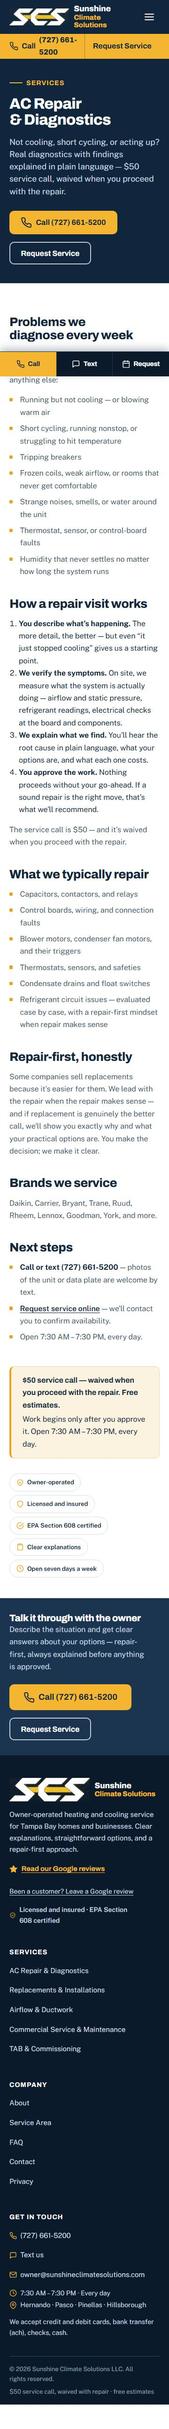
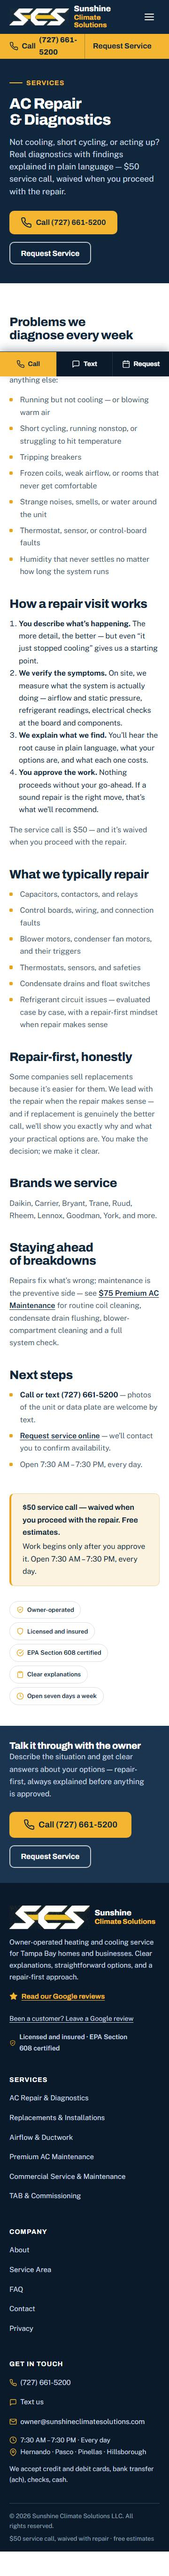
Add  Premium AC Maintenance service: page, homepage promo, form option, checklist

Changed region(s): [[0.0, 0.0, 1.0, 0.9979]]

diff --git a/src/content.config.ts b/src/content.config.ts
@@ -11,7 +11,7 @@ const services = defineCollection({
     metaTitle: z.string().optional(),
     summary: z.string(),
     metaDescription: z.string(),
-    icon: z.enum(['wrench', 'thermometer', 'wind', 'briefcase']),
+    icon: z.enum(['wrench', 'thermometer', 'wind', 'briefcase', 'shield']),
     order: z.number().int(),
   }),
 });
@@ -282,6 +282,15 @@ const site = defineCollection({
       .object({
         heading: z.string(),
         lead: z.string().optional(),
+      })
+      .optional(),
+
+    // home.md — $75 Premium AC Maintenance promotion band.
+    maintenanceBand: z
+      .object({
+        title: z.string(),
+        text: z.string(),
+        ctaLabel: z.string(),
       })
       .optional(),
 

diff --git a/src/content/services/ac-maintenance.md b/src/content/services/ac-maintenance.md
@@ -1,0 +1,198 @@
+---
+title: Premium AC Maintenance
+metaTitle: AC Maintenance in Spring Hill & Tampa Bay
+summary: >-
+  $75 per system, per visit — a comprehensive maintenance visit that includes routine coil
+  cleaning, condensate drain flushing, blower-compartment cleaning, electrical testing and
+  an evaluation of your system's operation.
+metaDescription: >-
+  $75 per system, per visit: routine coil cleaning, condensate drain flushing,
+  blower-compartment cleaning, electrical testing and a full system check. Spring Hill
+  based, serving Tampa Bay. Call (727) 661-5200.
+icon: shield
+order: 3
+---
+
+**Premium AC Maintenance. Comprehensive Care. Just $75.**
+
+This is preventive maintenance for a system that is running: routine cleaning, testing and a
+real evaluation of how your equipment is operating. **$75 per system, per visit** — an
+individual maintenance visit, not a membership, annual contract, repair warranty or
+subscription. If your system isn't cooling or isn't running, start with a
+[repair diagnostic](/services/ac-repair-diagnostics/) instead.
+
+## The four cleaning services included in every visit
+
+These routine procedures are part of the advertised $75 price — not add-ons:
+
+- **Outdoor condenser-coil cleaning.**
+- **Routine cleaning of the accessible indoor evaporator coil.**
+- **Flushing of the accessible condensate drain.**
+- **Accessible blower-compartment cleaning.**
+
+Every visit also includes the electrical inspection and operating evaluation described below.
+
+## The full maintenance visit
+
+### System inspection
+
+- Inspect accessible indoor and outdoor equipment.
+- Check thermostat settings and cooling operation.
+- Verify normal cooling startup and shutdown.
+- Inspect accessible refrigerant piping and insulation.
+- Check accessible equipment panels and visible connections.
+- Investigate unusual noise, vibration or visible deterioration.
+- Evaluate general equipment operation.
+
+### Electrical inspection and testing
+
+- Measure applicable supply and operating voltages.
+- Test applicable run and start capacitors.
+- Inspect applicable contactors and relays.
+- Measure compressor operating amperage where appropriate.
+- Evaluate indoor and outdoor fan-motor operation and applicable amperage.
+- Inspect accessible electrical connections and wiring.
+- Check applicable controls and accessible safety devices.
+
+Procedures are matched to your equipment. Inverter systems and other modern equipment may not
+contain conventional capacitors or contactors — testing follows manufacturer-appropriate
+methods.
+
+### Cleaning and drainage
+
+- Outdoor condenser-coil cleaning.
+- Routine cleaning of the accessible indoor evaporator coil.
+- Flushing of the accessible condensate drain.
+- Accessible blower-compartment cleaning.
+- Check the condensate pan and accessible drain connections.
+- Check the outdoor unit for airflow obstructions.
+- Verify accessible condensate drainage after flushing.
+- Check installed condensate overflow protection where applicable.
+
+Cleaning follows manufacturer requirements and equipment-safe procedures.
+
+### Airflow and performance
+
+- Inspect the installed air filter.
+- Check accessible return-air and supply-air restrictions.
+- Measure supply-air and return-air temperatures.
+- Evaluate the cooling temperature difference under appropriate operating conditions.
+- Evaluate blower operation and accessible settings.
+- Assess refrigerant-system performance using appropriate operating indicators.
+- Measure external static pressure where suitable testing access exists.
+- Note obvious accessible ductwork or airflow concerns.
+
+### Final verification
+
+- Recheck system operation after maintenance.
+- Document relevant operating measurements.
+- Identify notable equipment conditions.
+- Explain findings and available next steps.
+- Provide a concise maintenance summary.
+
+## What is not included
+
+The $75 visit covers the preventive maintenance above. It does not include, and never
+automatically adds:
+
+- Replacement air filters or filter materials (we inspect your filter; replacements are not
+  included).
+- Refrigerant additions and leak repairs.
+- Replacement electrical or mechanical components.
+- Invasive or extensive coil cleaning.
+- Full blower-wheel removal and deep cleaning.
+- Major condensate-system repairs.
+- Complete duct-system balancing.
+- Additional repairs discovered during maintenance.
+
+If we find something that needs work beyond the visit, we explain it and give you a clear price
+first. **Nothing additional proceeds without your authorization.**
+
+## Access and equipment limitations
+
+Some components are not accessible on every system without invasive disassembly, and routine
+maintenance must stay within manufacturer-safe procedures. When a procedure in this list cannot
+be performed due to normal access limits, we tell you at the visit and note it in the summary —
+we don't quietly skip an advertised procedure, and we don't add a surprise charge for ordinary
+access.
+
+Two honest boundaries:
+
+- Routine indoor-coil cleaning does not mean coil removal, invasive cabinet reconstruction or
+  restoration of severely impacted components.
+- Routine blower-compartment cleaning does not automatically include removing the entire blower
+  assembly for deep cleaning.
+
+Heating, gas-furnace service and combustion testing are separate services and are not part of
+this maintenance visit.
+
+## Maintenance vs. a service call
+
+These are two different visits:
+
+- **Premium AC Maintenance ($75 per system, per visit)** is for a system that's operating —
+  routine cleaning, testing and evaluation to keep it in good condition.
+- **A repair service call ($50, waived when you proceed with the repair)** is for a system that
+  isn't working correctly — diagnostics to find and explain the problem.
+
+If you're not sure which applies, call or text and describe what's happening — we'll tell you
+straight.
+
+## When maintenance makes sense
+
+- Your system is running normally and you want it cleaned, tested and evaluated.
+- You're heading into the cooling season and want the coils and drain in good condition.
+- It's been a long time since the equipment was cleaned or checked.
+- You want documented operating measurements and a plain-language summary of your equipment's
+  condition.
+
+Maintenance is preventive care. It does not guarantee that equipment will never break down or
+restore a specific amount of lost efficiency — it's a professional routine visit that keeps
+your system clean, tested and honestly evaluated.
+
+## Maintenance FAQ
+
+### How long does a maintenance visit take?
+
+It depends on the system — outdoor coil condition, indoor access and equipment type all affect
+the time needed. We don't rush through cleanings, and we don't leave until the visit items are
+done or explained.
+
+### What does "$75 per system, per visit" mean if I have two systems?
+
+The price is per system. Two systems scheduled for the same visit are two maintenance services
+— $75 each.
+
+### Is this a subscription or contract?
+
+No. It's an individual visit. There's no membership, no annual contract and no automatic
+renewal.
+
+### Do you clean the coils for that price?
+
+Yes — routine outdoor condenser-coil cleaning and routine cleaning of the accessible indoor
+evaporator coil are included, along with condensate drain flushing and accessible
+blower-compartment cleaning.
+
+### My system needs a repair. Should I schedule maintenance instead?
+
+No. Maintenance is for an operating system. If something is broken or not cooling, schedule a
+[repair diagnostic](/services/ac-repair-diagnostics/) — the $50 service call applies, and it's
+waived when you proceed with the repair.
+
+### Will you tell me if you find a problem?
+
+Yes. Every visit ends with findings explained in plain language and a concise summary. If we
+recommend additional work, you get the reason and the price — and the decision is yours.
+
+### Do you service my area?
+
+We're based in Spring Hill and serve Hernando, Pasco, Pinellas and Hillsborough counties —
+[see the full service area](/service-area/) or call to confirm your address.
+
+## Next steps
+
+- **Call or text (727) 661-5200** — tell us how many systems and where you are.
+- **[Request maintenance online](/contact/?service=premium-ac-maintenance)** — choose
+  "Premium AC Maintenance" in the form and we'll contact you to confirm scheduling.
+- Open 7:30 AM – 7:30 PM, every day.

diff --git a/docs/MAINTENANCE-CHECKLIST.md b/docs/MAINTENANCE-CHECKLIST.md
@@ -1,0 +1,103 @@
+# Premium AC Maintenance — technician checklist (internal)
+
+Internal service-documentation template for the **$75 Premium AC Maintenance** visit
+($75 per system, per visit). Record what was actually performed and measured — leave fields
+blank or mark N/A when something was not applicable or not accessible. Never pre-fill
+readings or assume results.
+
+## Equipment identification
+
+- Customer / site:
+- Address (or city):
+- Date: · Technician:
+- System #: of (systems at this visit)
+- Outdoor unit: make / model / serial:
+- Indoor unit: make / model / serial:
+- System type: (split / package / heat pump / mini-split / other)
+- Filter size(s): · Filter condition:
+- Thermostat: make / model / settings observed:
+
+## Procedures performed
+
+Mark each: done / not applicable / not accessible — note why.
+
+### Cleaning (confirmed inclusions — part of the $75 price)
+
+- [ ] Outdoor condenser-coil cleaning — method:
+- [ ] Routine cleaning of the accessible indoor evaporator coil — method / access notes:
+- [ ] Flushing of the accessible condensate drain — method:
+- [ ] Accessible blower-compartment cleaning — extent:
+
+### Inspection
+
+- [ ] Thermostat settings and cooling operation checked
+- [ ] Normal cooling startup and shutdown verified
+- [ ] Accessible refrigerant piping and insulation inspected
+- [ ] Accessible panels and visible connections checked
+- [ ] Unusual noise / vibration / visible deterioration investigated
+- [ ] Condensate pan and accessible drain connections checked
+- [ ] Outdoor-unit airflow obstructions checked
+- [ ] Condensate overflow protection checked (where applicable)
+- [ ] Installed air filter inspected
+
+### Electrical measurements (record actual readings)
+
+| Item | Reading | Notes |
+| --- | --- | --- |
+| Supply voltage | | |
+| Operating voltage | | |
+| Run capacitor (µF, measured / rated) | | |
+| Start capacitor (µF, measured / rated) | | |
+| Contactor / relay condition | | |
+| Compressor amperage (measured / rated) | | |
+| Indoor fan-motor amperage (measured / rated) | | |
+| Outdoor fan-motor amperage (measured / rated) | | |
+| Accessible wiring / connections | | |
+| Applicable controls and safety devices | | |
+
+Inverter/modulating equipment: note the manufacturer-appropriate checks performed instead of
+conventional component tests.
+
+### Temperature / airflow measurements
+
+| Item | Reading | Notes |
+| --- | --- | --- |
+| Return-air temperature | | |
+| Supply-air temperature | | |
+| Temperature difference (under appropriate operating conditions) | | |
+| External static pressure (where suitable access existed) | | |
+| Blower operation / accessible settings | | |
+| Accessible return/supply restrictions | | |
+| Notable accessible ductwork/airflow concerns | | |
+
+### Condition notes
+
+- Coil condition (outdoor / indoor):
+- Blower compartment / wheel condition (visual, as accessible):
+- Condensate drain condition / flow verified:
+- Refrigerant-system performance indicators observed:
+
+## Items not applicable or not accessible
+
+- Item: — reason (normal access limit / equipment type / other):
+- Item: — reason:
+- Item: — reason:
+
+*(Explain limitations to the customer at the visit and include them in the summary — never
+silently skip an advertised procedure.)*
+
+## Recommended additional repairs
+
+- Finding: — recommendation: — customer informed (date/time): — customer decision:
+- Finding: — recommendation: — customer informed: — customer decision:
+
+*(No additional work proceeds without customer authorization.)*
+
+## Final verification
+
+- [ ] System operation rechecked after maintenance
+- [ ] Measurements documented
+- [ ] Findings explained to customer
+- [ ] Concise maintenance summary provided
+- Final operating condition at departure:
+- Ran for minutes, verified cooling at (°F / °C) thermostat setpoint:

diff --git a/docs/VERIFICATION.md b/docs/VERIFICATION.md
@@ -1,9 +1,20 @@
 # Verification
 
 What has actually been tested, where, and what remains unverified. This file is updated as
-verification continues. **Last updated: Phase 2A local-SEO metadata (branch
-`seo-local-spring-hill`): Spring Hill homepage + AC-repair metadata, optional service
-`metaTitle`.**
+verification continues. **Last updated: $75 Premium AC Maintenance launch (branch
+`maintenance-launch`) — AWAITING OWNER SCOPE APPROVAL before publication.**
+
+## $75 Premium AC Maintenance — verification
+
+| Check | Result |
+| --- | --- |
+| `npm run verify` | **PASS** — 0 errors / 0 warnings / 0 hints, 16 pages |
+| `scripts/links.mjs` | **PASS** — 669 internal URLs, 0 broken |
+| `scripts/smoke.mjs` | **PASS** |
+| `scripts/a11y.mjs` (maintenance page added) | **PASS** — 26 scans, 0 violations |
+| Maintenance check suite | **27/27 PASS** — price consistency ("$75 per system, per visit" ×6), all four confirmed cleanings present, exclusions + authorization wording, maintenance vs $50 service-call distinction, no membership language, no positive guarantee claims (honest disclaimer present), homepage promo + preselect link, contact form option + URL preselect verified in browser, services index/homepage/footer listings, contextual links from AC-repair and installation pages, Call/Request CTAs, 0px overflow at 360/768/1440 |
+| Screenshots | `docs/verification/screenshots/service-ac-maintenance-{360,1440}.jpg`, `sections/home-maintenance-{360,1440}.jpg` |
+| **Owner scope approval** | **PENDING** — the four confirmed cleaning inclusions are definite; all other checklist items are the proposed standard scope awaiting final owner approval |
 
 ## Phase 2A local-SEO metadata — verification
 

diff --git a/docs/CONTENT-GUIDE.md b/docs/CONTENT-GUIDE.md
@@ -116,7 +116,7 @@ Answer body — plain Markdown, links allowed.
 ## Adding a service page
 
 Create `src/content/services/new-service.md` with frontmatter
-(`title`, `summary`, `metaDescription`, `icon` = wrench | thermometer | wind | briefcase,
+(`title`, `summary`, `metaDescription`, `icon` = wrench | thermometer | wind | briefcase | shield,
 `order`) — the page, card, and footer link appear automatically at
 `/services/<filename>/`. Optional `metaTitle` overrides the default
 `"<title> in Tampa Bay"` SEO title — use it only where a specific local search intent

diff --git a/src/content/services/ac-repair-diagnostics.md b/src/content/services/ac-repair-diagnostics.md
@@ -50,6 +50,12 @@ Some companies sell replacements because it's easier for them. We lead with the 
 
 Daikin, Carrier, Bryant, Trane, Ruud, Rheem, Lennox, Goodman, York, and more.
 
+## Staying ahead of breakdowns
+
+Repairs fix what's wrong; maintenance is the preventive side — see
+[$75 Premium AC Maintenance](/services/ac-maintenance/) for routine coil cleaning,
+condensate drain flushing, blower-compartment cleaning and a full system check.
+
 ## Next steps
 
 - **Call or text (727) 661-5200** — photos of the unit or data plate are welcome by text.

diff --git a/src/content/services/replacement-installation.md b/src/content/services/replacement-installation.md
@@ -47,6 +47,11 @@ Replacements are planned with you in advance: what's included, what changes in y
 what happens on the day of the work. You'll know the plan before we start, and the work proceeds
 the way it was described.
 
+## Caring for your system after installation
+
+Routine maintenance keeps new equipment cleaned, tested and evaluated — see
+[$75 Premium AC Maintenance](/services/ac-maintenance/) for the details.
+
 ## Next steps
 
 - **Call or text (727) 661-5200** to talk through your system.

diff --git a/src/content/site/home.md b/src/content/site/home.md
@@ -147,4 +147,9 @@ proof:
 brands:
   heading: Equipment brands we service
   lead: 'Service experience across a range of common HVAC equipment. Call with your system model and issue.'
+
+maintenanceBand:
+  title: $75 Premium AC Maintenance
+  text: 'Routine coil cleaning, condensate drain flushing, blower-compartment cleaning and a comprehensive system check.'
+  ctaLabel: Schedule Maintenance
 ---
